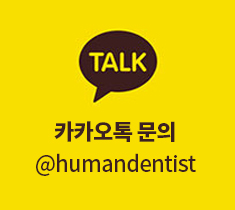
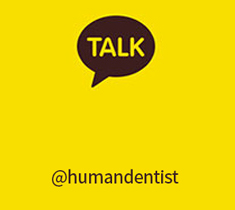
Add files via upload

Changed region(s): [[0.2979, 0.0571, 0.6851, 0.5143], [0.1489, 0.7143, 0.834, 0.9143], [0.2383, 0.5714, 0.7447, 0.6857]]

diff --git a/sub3.html b/sub3.html
@@ -137,10 +137,8 @@
         </div>
 
         <div class="sct2">
-            <img src="./img/map.jpg" alt="위치" class="map-img">
             <div class="mapguide">
-                <p>경기도 성남시 분당구 삼평동 670번지 유스페이스 1동 306호</p>
-                <span>신분당선 판교역 4번출구</span>
+                <iframe src="https://www.google.com/maps/embed?pb=!1m18!1m12!1m3!1d3169.5411074833783!2d127.104323615583!3d37.400683279829174!2m3!1f0!2f0!3f0!3m2!1i1024!2i768!4f13.1!3m3!1m2!1s0x357ca7c3bc0284df%3A0x77db63f24f216640!2z7IKs656M6re466as6rOg7LmY6rO87J2Y7JuQ!5e0!3m2!1sko!2skr!4v1590545862728!5m2!1sko!2skr" width="900" height="450" frameborder="0" style="border:0;" allowfullscreen="" aria-hidden="false" tabindex="0"></iframe>
             </div>
 
             <div class="parkings">
@@ -187,10 +185,19 @@
                     </div>
 
                     <div class="col-md-3">
-                        <div class="col-box">
-                            <img src="./img/menu3.jpg" alt="카카오톡 플러스" width="160">
-                        </div>
-                    </div>
+                        <div class="col-box" id="chat">
+                        <h3>진료 및 예약상담</h3>
+                       <div
+                       id="kakao-talk-channel-chat-button"
+                       data-channel-public-id="human_dentist"
+                       data-title="consult"
+                       data-size="small"
+                       data-color="yellow"
+                       data-shape="pc"
+                       data-support-multiple-densities="true"
+                       ></div>
+                       </div>
+                       </div>
                 </div>
             </div>
         </div>
@@ -263,16 +270,7 @@
             </div>
         </div>
     </div>
-
-
-
-
-
-
-
-
-
-   
+  
 <!-- gnb slider -->
     <script>
         $(function(){
@@ -283,6 +281,20 @@
               function(){
             $(this).children('#sub_gnb').css('display', 'none');
             });
+
+            window.kakaoAsyncInit = function() {
+    Kakao.Channel.createChatButton({
+        container: '#kakao-talk-channel-chat-button',
+    });
+    };
+
+    (function(d, s, id) {
+    var js, fjs = d.getElementsByTagName(s)[0];
+    if (d.getElementById(id)) return;
+    js = d.createElement(s); js.id = id;
+    js.src = '//developers.kakao.com/sdk/js/kakao.plusfriend.min.js';
+    fjs.parentNode.insertBefore(js, fjs);
+    })(document, 'script', 'kakao-js-sdk');
         });
     </script>
     

diff --git a/index.html b/index.html
@@ -205,7 +205,15 @@
             <ul>
                 <li><img src="./img/menu1.jpg" alt="info1"></li>
                 <li><img src="./img/menu2.jpg" alt="info2"></li>
-                <li><img src="./img/menu3.jpg" alt="info3"></li>
+                <li><div
+                    id="kakao-talk-channel-chat-button"
+                    data-channel-public-id="human_dentist"
+                    data-title="consult"
+                    data-size="small"
+                    data-color="yellow"
+                    data-shape="pc"
+                    data-support-multiple-densities="true"
+                    ></div></li>
                 <li><img src="./img/menu4.jpg" alt="info4"></li>
             </ul>
         </div>
@@ -342,6 +350,20 @@
                 $('#hover_box').css('right', '0');
             }
             });
+
+            window.kakaoAsyncInit = function() {
+            Kakao.Channel.createChatButton({
+            container: '#kakao-talk-channel-chat-button',
+            });
+            };
+
+            (function(d, s, id) {
+            var js, fjs = d.getElementsByTagName(s)[0];
+            if (d.getElementById(id)) return;
+            js = d.createElement(s); js.id = id;
+            js.src = '//developers.kakao.com/sdk/js/kakao.plusfriend.min.js';
+            fjs.parentNode.insertBefore(js, fjs);
+            })(document, 'script', 'kakao-js-sdk');
         });
     </script>
 </body>

diff --git a/css/sub3.css b/css/sub3.css
@@ -171,11 +171,7 @@ ul{
 
 
 .sct2, .sct4 {padding:70px 0;}
-.sct2 .map-img {width: 100%;}
-.sct2 .mapguide {position: relative; padding: 75px 0;}
-.sct2 .mapguide p {font-size: 30px; text-align: center; color: #30567a;}
-.sct2 .mapguide span {font-size: 22px; text-align: center; color: #000000; display: block;}
-
+.sct2 .mapguide {text-align: center;}
 
 .sct2 .parkings {position: relative; padding: 75px 0; width: 920px; margin: 0 auto;}
 .sct2 .parkings .parking {position: relative; padding:0 20px; color: #30567b; font-size: 20px;}
@@ -209,7 +205,8 @@ ul{
 
 .sct2 .diagnosis .diagnosis-tel .col-md-3 .col-box h3 {font-size: 30px; color: #30567b; position: relative; padding-left: 10px; padding-bottom: 8px;}
 .sct2 .diagnosis .diagnosis-tel .col-md-3 .col-box h3:before {position: absolute; content:''; width:1px; height: 20px; background-color: #30567b; left: 0; top: 9px;}
-.sct2 .diagnosis .diagnosis-tel .col-md-3 .col-box p {color: #14c7db; font-size: 33px;}
+.sct2 .diagnosis .diagnosis-tel .col-md-3 .col-box p {color: #14c7db; font-size: 33px; }
+.sct2 .diagnosis .diagnosis-tel .col-md-3 #chat h3::before{ width:0px; height: 0px;}
 
 
 .sct3 {background-image: url('../img/sct3-bg.png'); background-repeat: no-repeat; background-size: cover; background-position: center;}

diff --git a/css/sub1.css b/css/sub1.css
@@ -236,19 +236,21 @@ ul{
 }
 #circle ul li{
     display: inline-block;
-    width: 200px;
-    height: 200px;
+    width: 180px;
+    height: 180px;
     margin: 0 20px;
     border-radius: 50%;
-    line-height: 200px;
+    line-height: 180px;
     font-size: 26px;
     font-weight: normal;
-    color: #fff;
-    transition: 0.5s;
+    font-weight: bold;
+    transition: ease-in-out 0.3s;
 }
 #circle ul li:hover{
-    font-size: 30px;
-    font-weight: bold;
+    transform: scale(1.1);
+}
+#circle ul li a{
+    color: #fff;
 }
 #circle ul li:nth-child(1){
     background-color: #85cdc1;

diff --git a/sub1.html b/sub1.html
@@ -178,10 +178,10 @@
         <h1>사람그리고치과의 <span>진료철학</span></h1>
         <div id="circle">
             <ul>
-                <li>멸균시스템</li>
-                <li>정직한 치료</li>
-                <li>전문적 진료</li>
-                <li>사회봉사</li>
+                <li><a href="#">멸균시스템</a></li>
+                <li><a href="#">정직한 치료</a></li>
+                <li><a href="#">전문적 진료</a></li>
+                <li><a href="#">사회봉사</a></li>
             </ul>
         </div>
     </div>

diff --git a/css/style.css b/css/style.css
@@ -412,6 +412,16 @@ ul{
     height: 210px;
     margin-right: 25px;
     float: left;
+    background-image: url(../img/menu3.jpg);
+}
+#third > ul > li #kakao-talk-channel-chat-button{
+    /* opacity: 0;
+    padding: 50px; */
+    /* border: 1px solid red; */
+    position: relative;
+    left: 63px;
+    text-align: center;
+    line-height: 290px;
 }
 #third > ul > li:nth-child(4){
     margin-right: 0;
